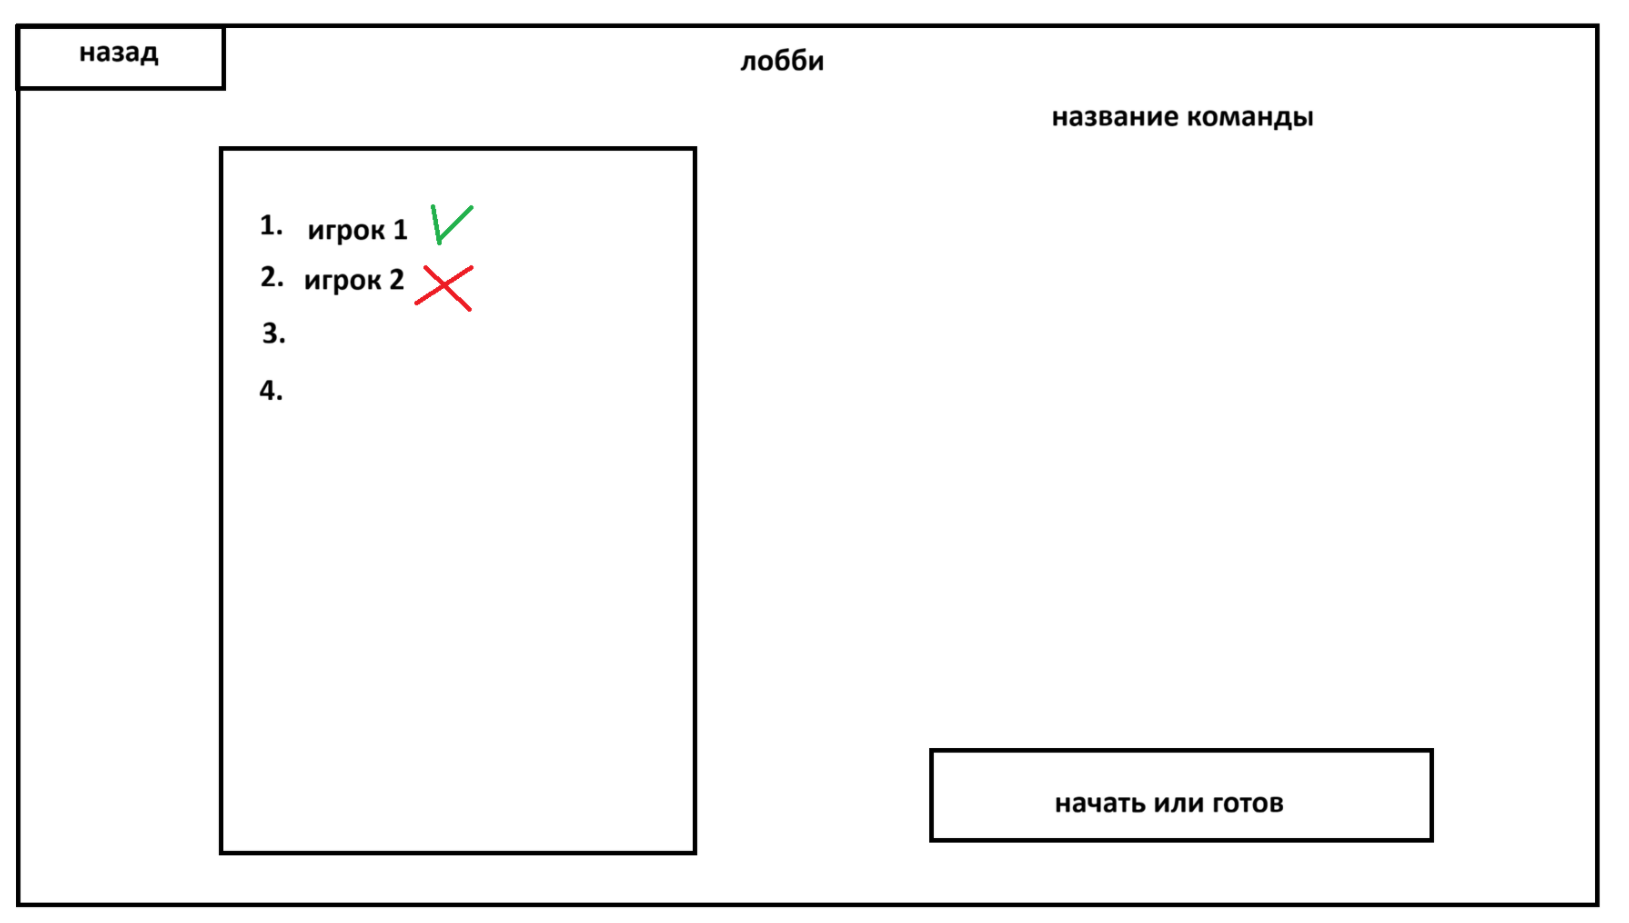
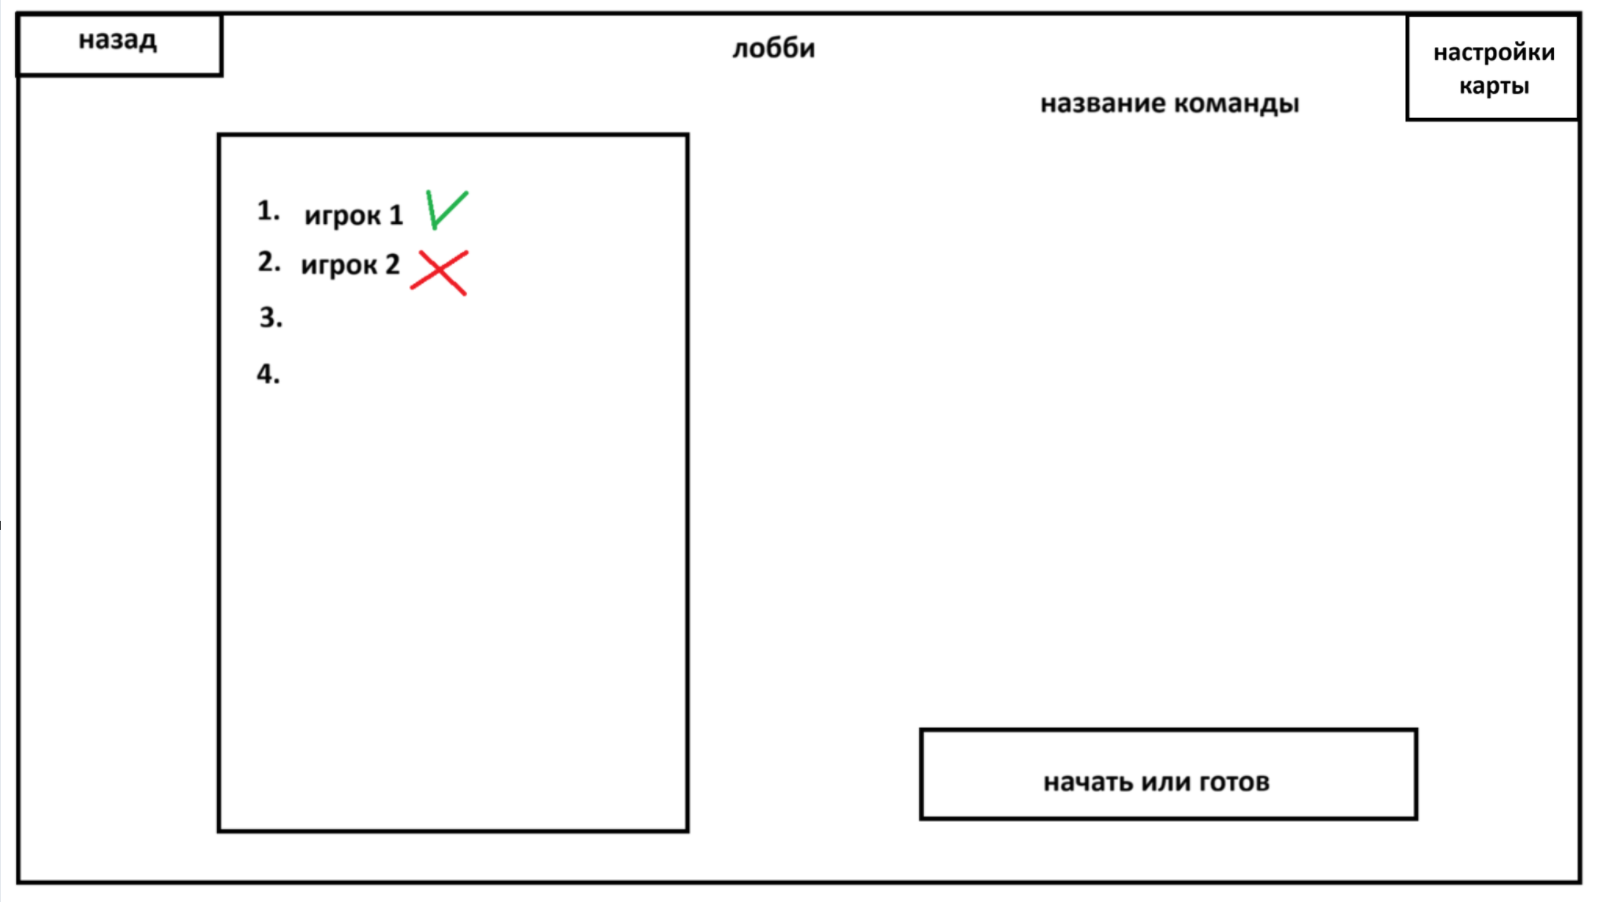
update

diff --git a/peopleEconomy/analysts/макеты/maket.md b/peopleEconomy/analysts/макеты/maket.md
@@ -9,4 +9,6 @@
 
 ![alt text](image-4.png)
 
+![alt text](image-6.png)
+
 ![alt text](image-5.png)